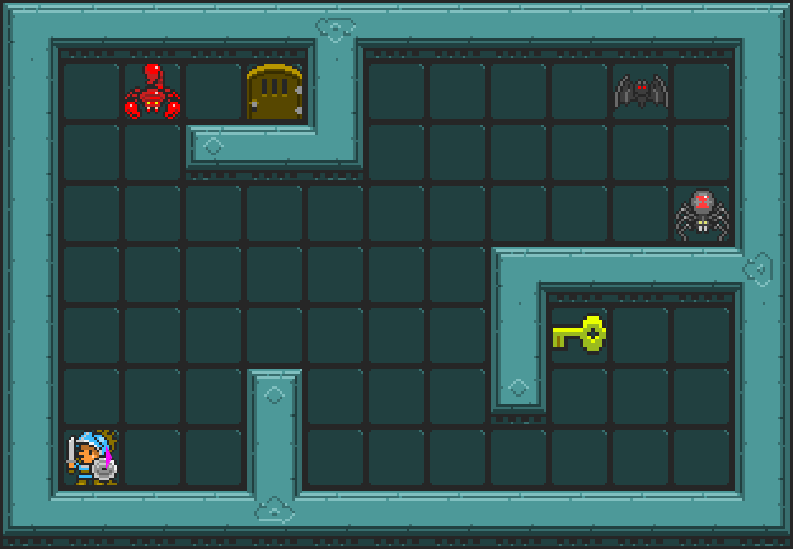
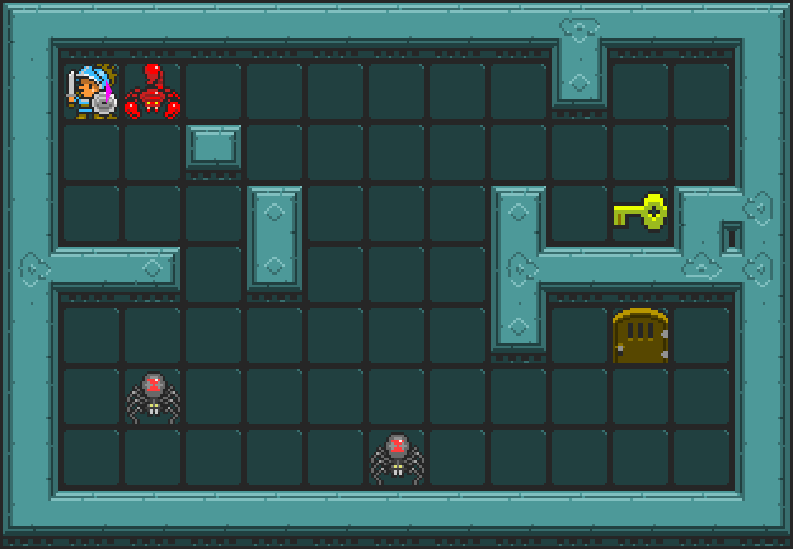
fixing 'negative' sprites

diff --git a/src/video/handlers/FrameInteractionAssociation.java b/src/video/handlers/FrameInteractionAssociation.java
@@ -87,7 +87,8 @@ public class FrameInteractionAssociation
 
 		frames = new String[]{frame0, frame1, frame2, frame3, frame4};
 		
-		checkLastTwoFramesExistance(frames, tick);
+		checkLastTwoFramesAfterInteraction(frames, tick);
+		checkNegativeFramesBeforeTheInteraction(frames, tick);
 
 		return frames;
 	}
@@ -105,7 +106,7 @@ public class FrameInteractionAssociation
 		
 		frames = new String[]{frame0, frame1, frame2, frame3, frame4};
 		
-		checkLastTwoFramesExistance(frames, tick);
+		checkLastTwoFramesAfterInteraction(frames, tick);
 
 		return frames;
 	}
@@ -119,7 +120,7 @@ public class FrameInteractionAssociation
 		return false;
 	}
 	
-	public void checkLastTwoFramesExistance(String[] frames, int tick)
+	public void checkLastTwoFramesAfterInteraction(String[] frames, int tick)
 	{
 		if(!isThereSuchAFrame(frames[3]) || !isThereSuchAFrame(frames[4]))
 		{
@@ -128,6 +129,20 @@ public class FrameInteractionAssociation
 			frames[2] = "frames/frame" + (tick - 2) + ".png";
 			frames[3] = "frames/frame" + (tick - 1) + ".png";
 			frames[4] = "frames/frame" + (tick) + ".png";
+		}
+	}
+	
+	public void checkNegativeFramesBeforeTheInteraction(String[] frames, int tick)
+	{
+		if(frames[0].contains("-"))
+		{
+			frames[0] = frames[1];
+		}
+		
+		if(frames[1].contains("-"))
+		{
+			frames[1] = frames[2];
+			frames[0] = frames[1];
 		}
 	}
 	

diff --git a/src/tracks/tutorialGeneration/VisualDemonstrationInterfacer.java b/src/tracks/tutorialGeneration/VisualDemonstrationInterfacer.java
@@ -453,11 +453,11 @@ public class VisualDemonstrationInterfacer {
 
 		//1st - configure your games
 		BunchOfGames bog1 = new BunchOfGames("examples/gridphysics/zelda.txt", 
-				"examples/gridphysics/zelda_lvl1.txt", 
+				"examples/gridphysics/zelda_lvlTST.txt", 
 				"tracks.singlePlayer.tools.human.Agent");
 
 		BunchOfGames bog2 = new BunchOfGames("examples/gridphysics/zelda.txt", 
-				"examples/gridphysics/zelda_lvl1.txt", 
+				"examples/gridphysics/zelda_lvlTST.txt", 
 				"tracks.singlePlayer.tools.human.Agent");
 //
 //		BunchOfGames bog3 = new BunchOfGames("examples/gridphysics/zelda.txt", 
